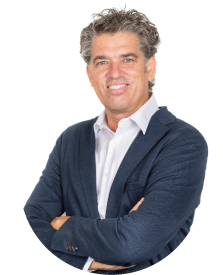
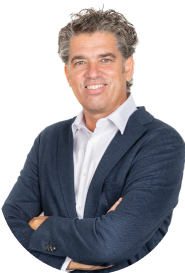
Agregué estilo de focus en búsqueda de vista de inversiones

diff --git a/src/pages/Investments.js b/src/pages/Investments.js
@@ -12,6 +12,7 @@ function Investments(props) {
     const [listClass,setListClass]=useState("");
     const [priceFilterList,setPriceFilterList]=useState([]);
     const [investmentSearch,setInvestmentSearch] = useState("");
+    const [investmentSearchClass,setInvestmentSearchClass] = useState("investmentsSearch");
     useEffect(()=>{
             if(investmentSearch===""){
             setInvestmentsCards(
@@ -51,11 +52,19 @@ function Investments(props) {
             <section className="investmentsPageList">
                 <div className="investmentsPageListFilter">
                     <form>
-                        <input type="text" name="search" placeholder="Buscar" className="investmentsSearch" id="investmentsSearch"
-                            onChange={(e)=>{
-                                setInvestmentSearch(e.target.value);
-                            }}
-                        />
+                        <div className={investmentSearchClass}>
+                            <input type="text" name="search" placeholder="Buscar"  id="investmentsSearch"
+                                onChange={(e)=>{
+                                    setInvestmentSearch(e.target.value);
+                                }}
+                                onFocus={()=>{
+                                    setInvestmentSearchClass("investmentsSearchFocus");
+                                }}
+                                onBlur={()=>{
+                                    setInvestmentSearchClass("investmentsSearch");
+                                }}
+                            />
+                        </div>
                         {/* <div name="Precio" className="priceFilter" 
                         onClick={()=>{
                             setListClass(

diff --git a/src/assets/css/investments.css b/src/assets/css/investments.css
@@ -85,11 +85,30 @@
 .investmentsSearch{
     width: 30%;
     border-radius: 50rem;
-    padding: 1.5%;
+    padding: 2px;
     height: 100%;
     background-color: #F4F4F4;
     border: none;
-    outline: solid  #004DFF;
+    outline: none;
+}
+.investmentsSearchFocus input,
+.investmentsSearch input{
+    width: 100%;
+    height: 100%;
+    padding: 2%;
+    border-radius: 50rem;
+    background-color: #F4F4F4;
+    border: none;
+    outline: none;
+}
+.investmentsSearchFocus{
+    background: linear-gradient(to right,#004DFF, #FF00CC);
+    width: 30%;
+    border-radius: 50rem;
+    padding: 2px;
+    height: 100%;
+    border: none;
+    outline: none;
 }
 .priceFilter{
     width: 10%;

diff --git a/src/assets/css/about.css b/src/assets/css/about.css
@@ -346,7 +346,7 @@
     bottom: 0;
 }
 #jobCarreraAvatar{
-    width: 120%;
+    width: 100%;
 }
 #marielaScheloneAvatar{
     width: 155%;
